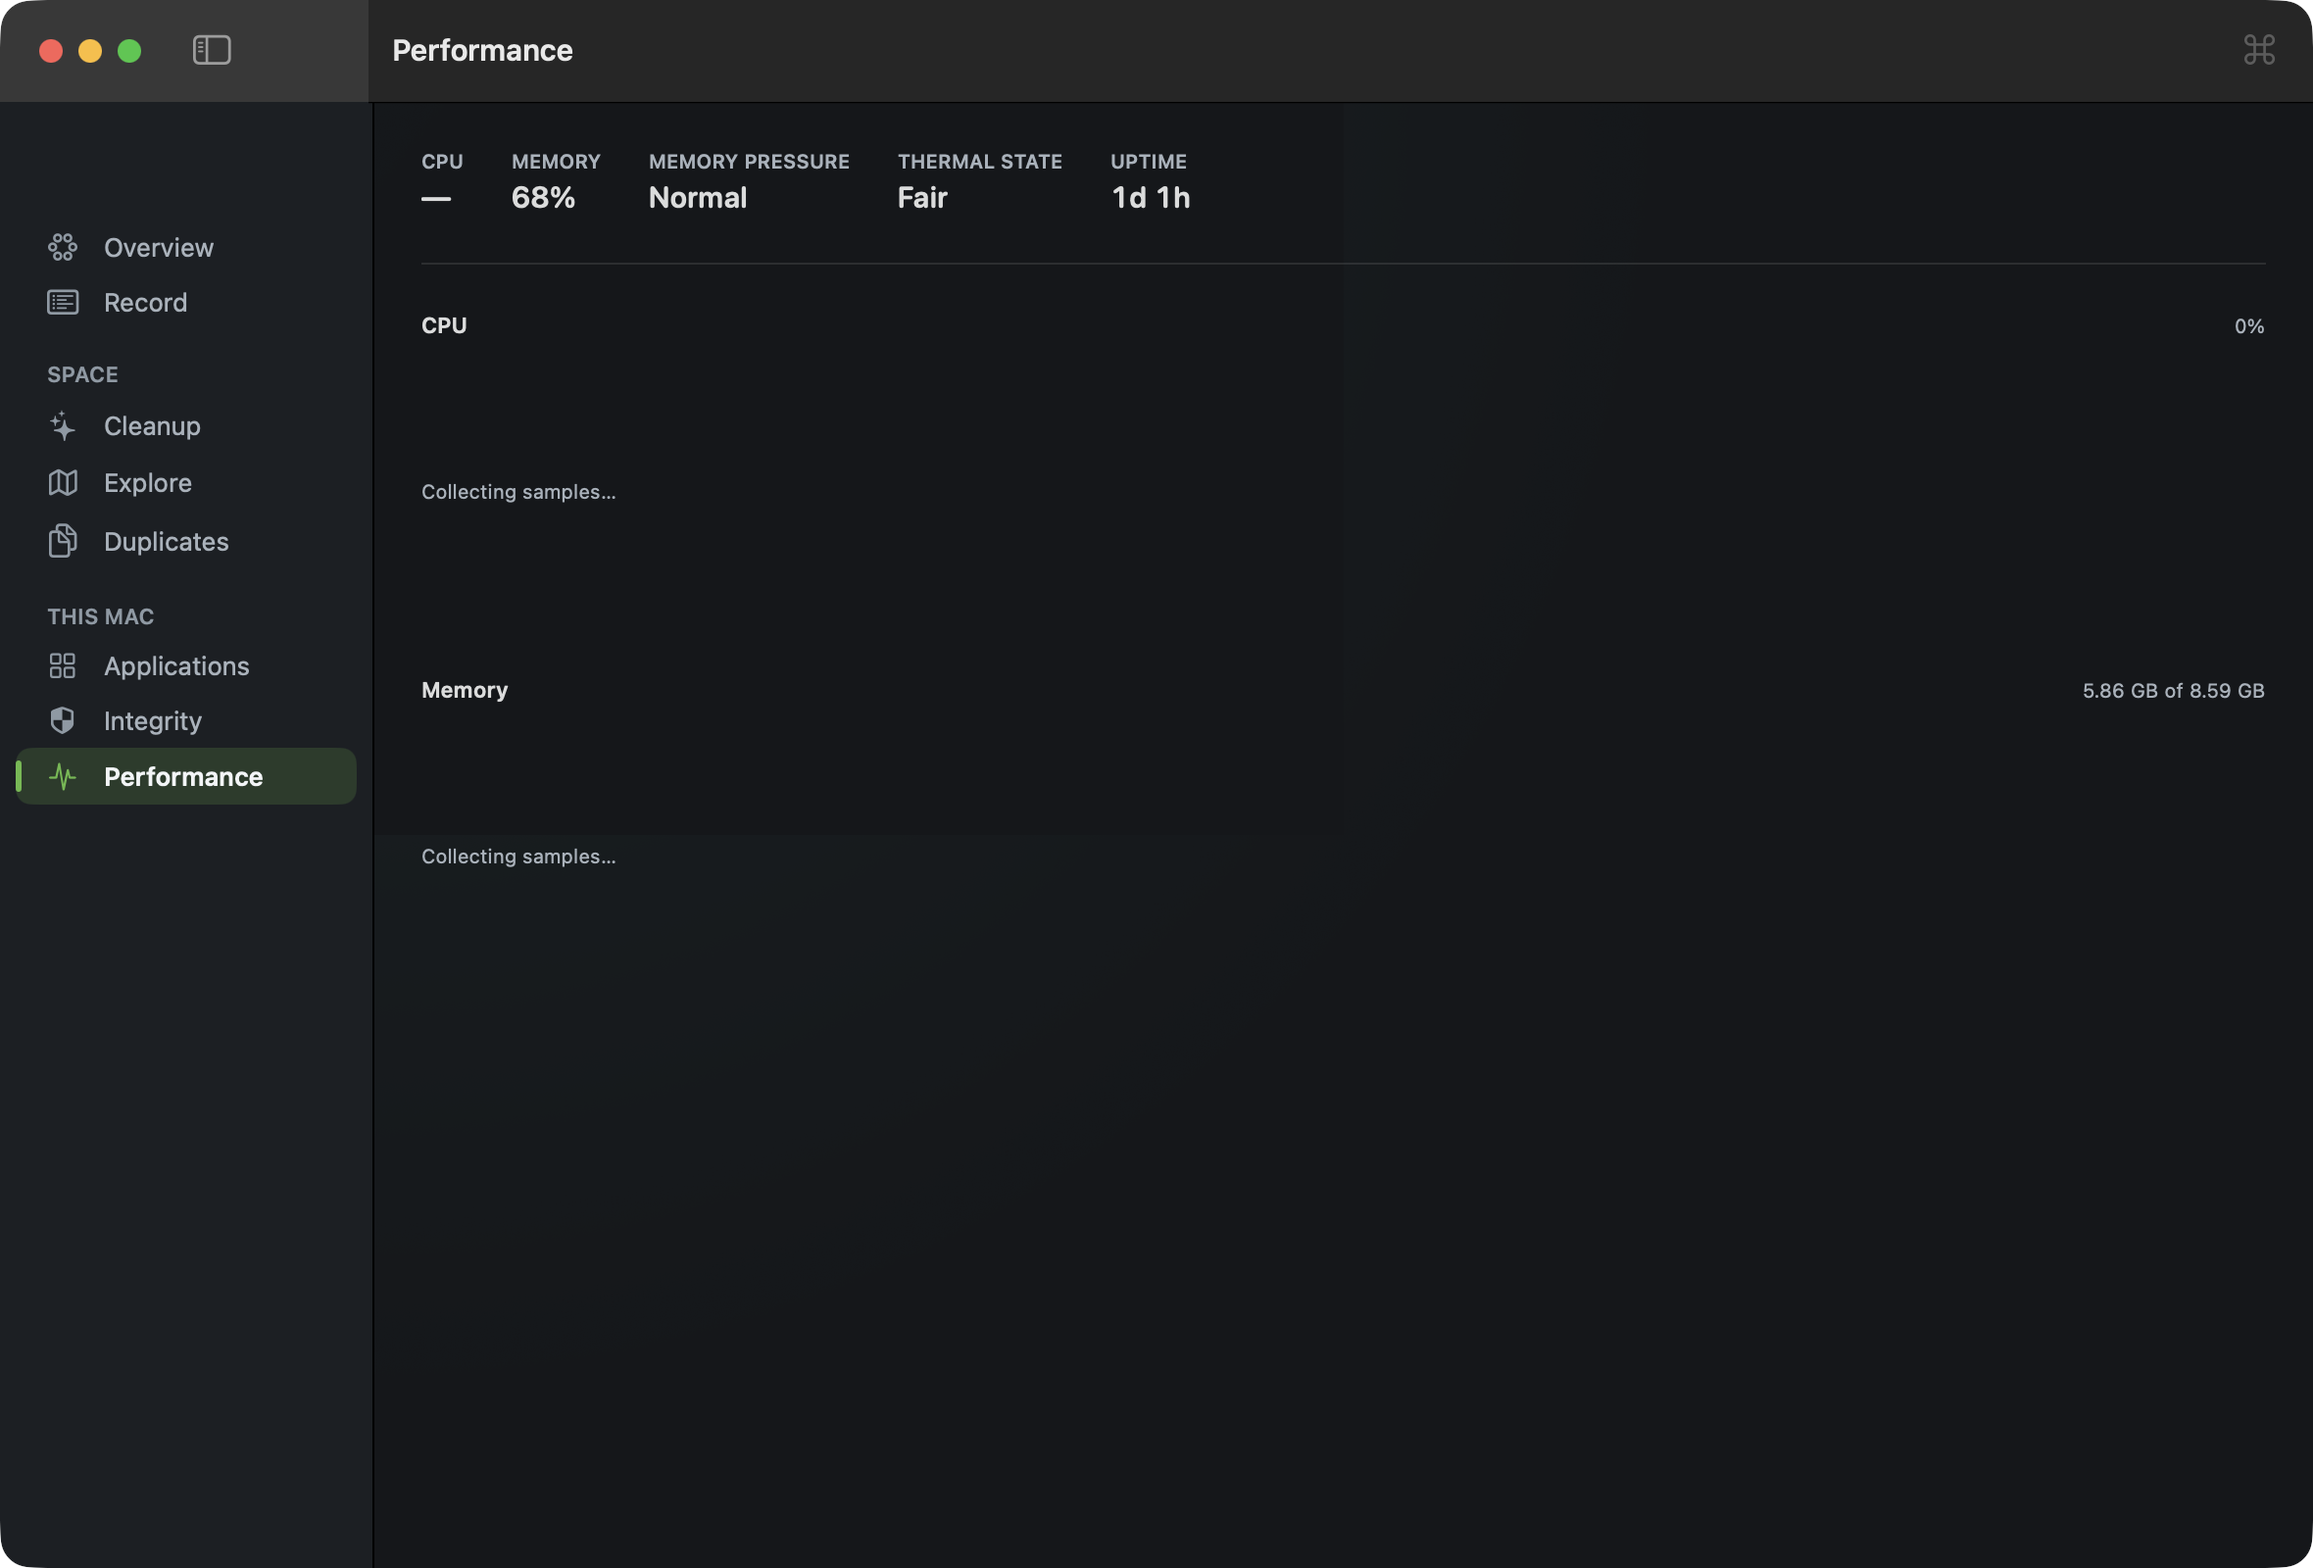
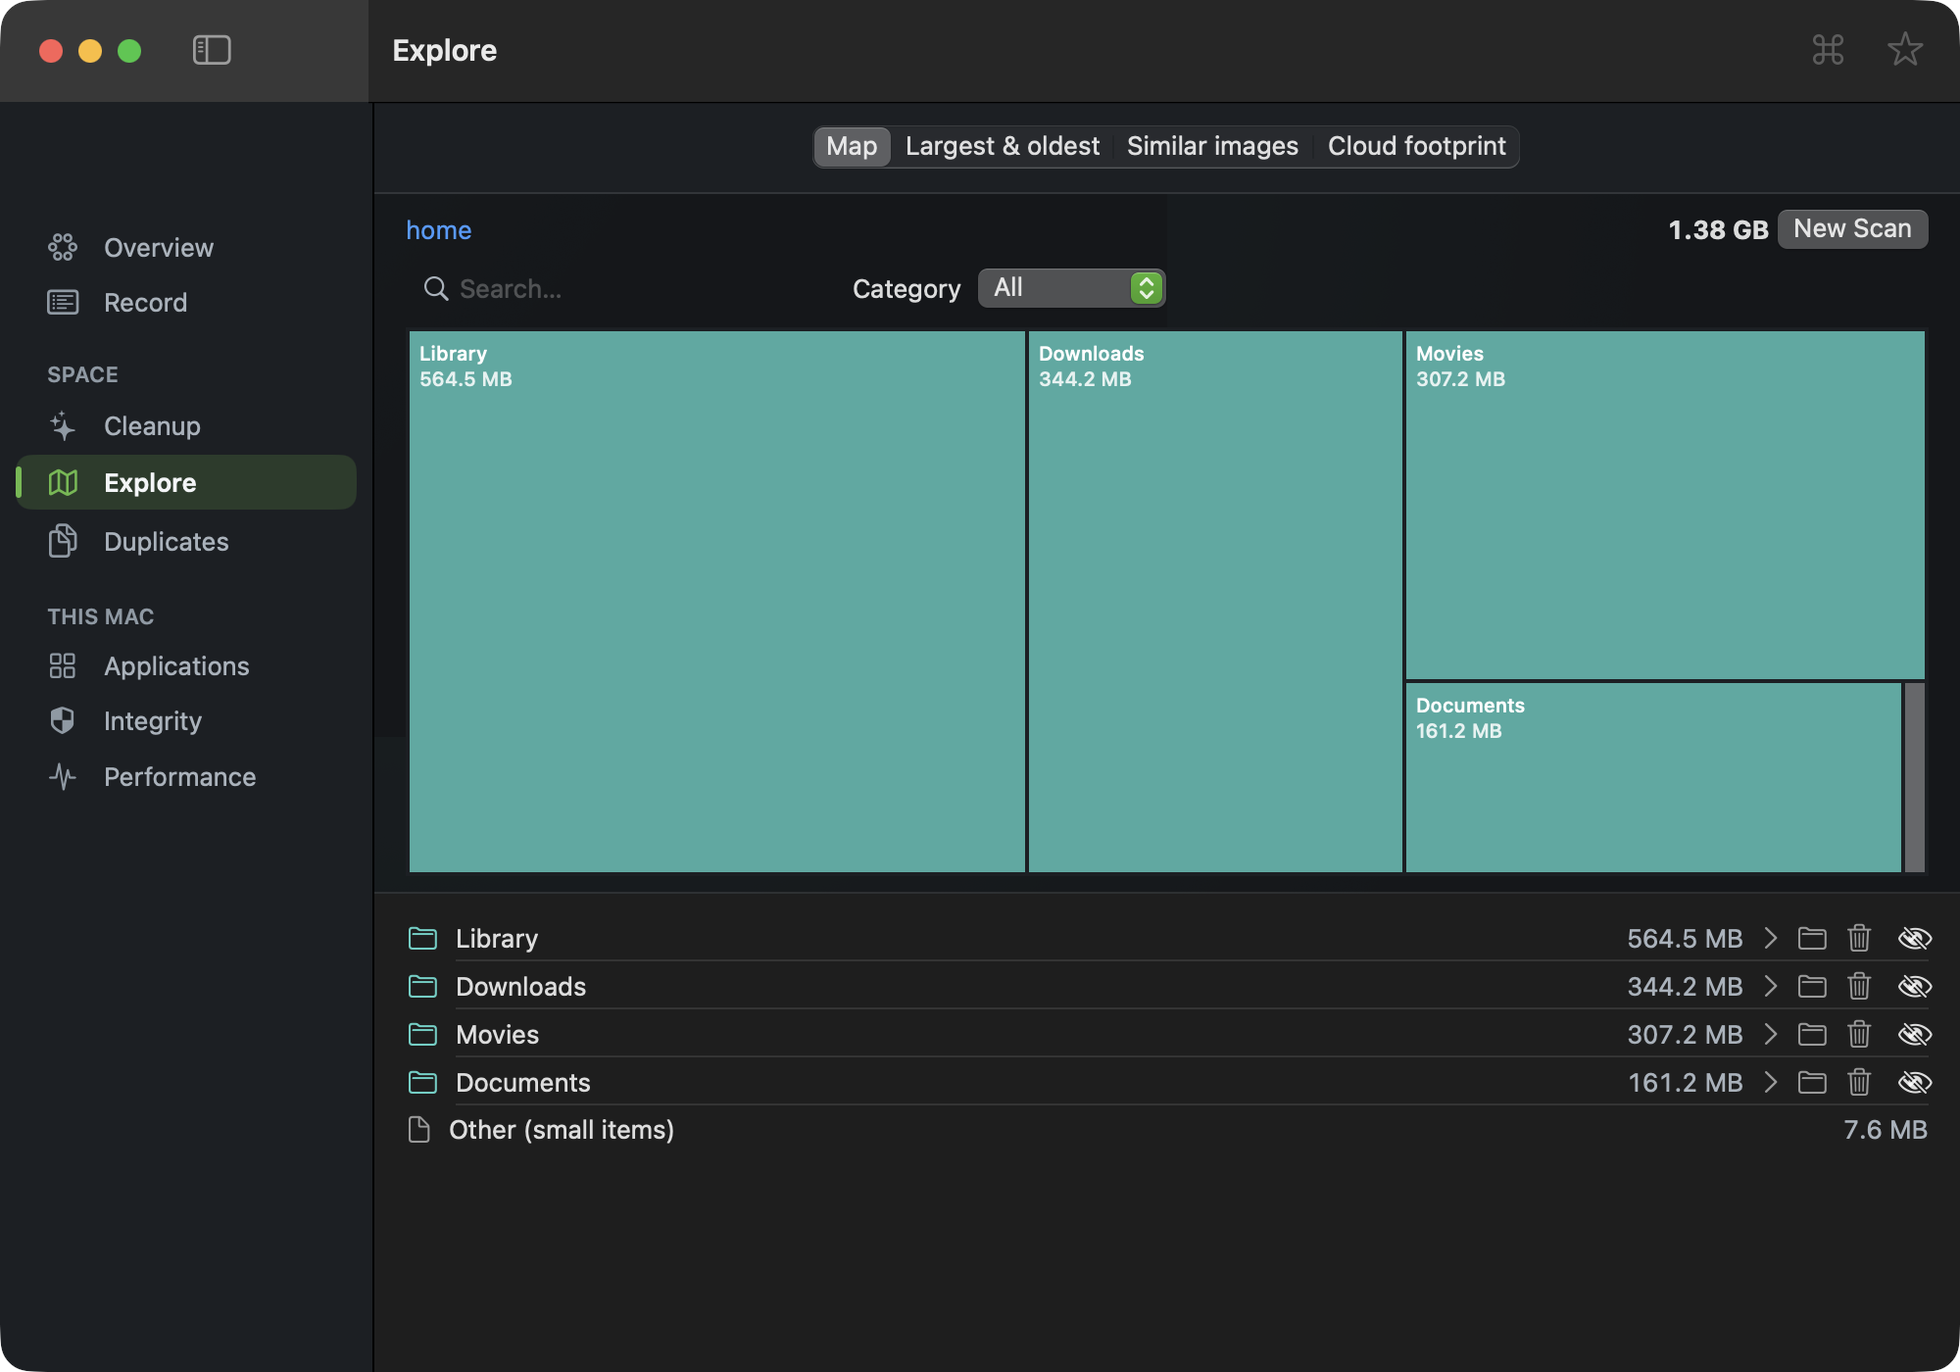
Compact: the Record's inspector becomes a pushed detail
At 1000pt a 360pt list left the inspector 600pt for paths that are routinely
longer than that, so both panes were cramped and neither was usable.
ViewThatFits keeps the two-pane layout where both fit and otherwise gives the
list the whole width, pushing the detail on selection — which is how a split
view behaves when it collapses.

Claude-Session: https://claude.ai/code/session_01SwbUPTfhPnzWfWjNmKExgk

diff --git a/Sources/CoreTendApp/RecordView.swift b/Sources/CoreTendApp/RecordView.swift
@@ -173,16 +173,32 @@ struct RecordView: View {
         }
     }
 
+    /// List and inspector side by side, unless the window is too narrow for
+    /// both to be usable — then the list fills the width and selecting an
+    /// entry pushes its detail, the way a split view behaves when it collapses.
+    /// At 1000pt a 360pt list left the inspector 600pt for paths that are
+    /// routinely longer than that.
     private var loaded: some View {
-        HStack(spacing: 0) {
-            VStack(alignment: .leading, spacing: 0) {
-                summaryLine
+        ViewThatFits(in: .horizontal) {
+            HStack(spacing: 0) {
+                listPane.frame(minWidth: 340, idealWidth: 380, maxWidth: 460)
                 Divider()
-                list
+                inspector.frame(minWidth: 520, maxWidth: .infinity, maxHeight: .infinity)
             }
-            .frame(minWidth: 300, idealWidth: 360, maxWidth: 440)
+            NavigationStack {
+                listPane
+                    .navigationDestination(item: $model.selection) { _ in
+                        inspector
+                    }
+            }
+        }
+    }
+
+    private var listPane: some View {
+        VStack(alignment: .leading, spacing: 0) {
+            summaryLine
             Divider()
-            inspector.frame(maxWidth: .infinity, maxHeight: .infinity)
+            list
         }
     }
 
